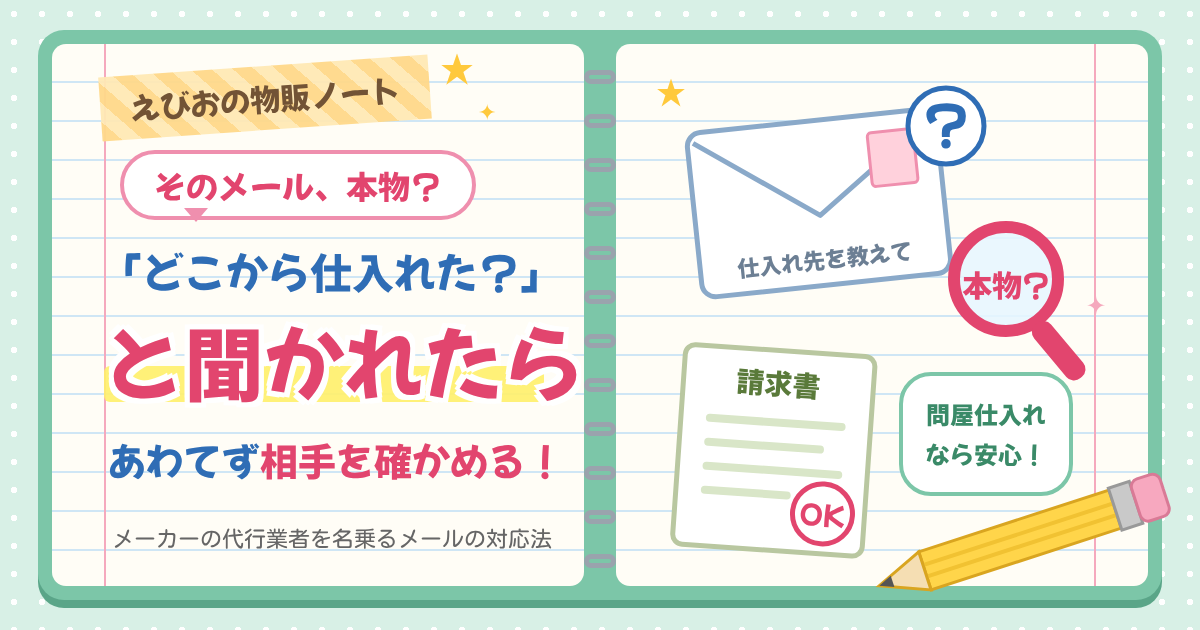
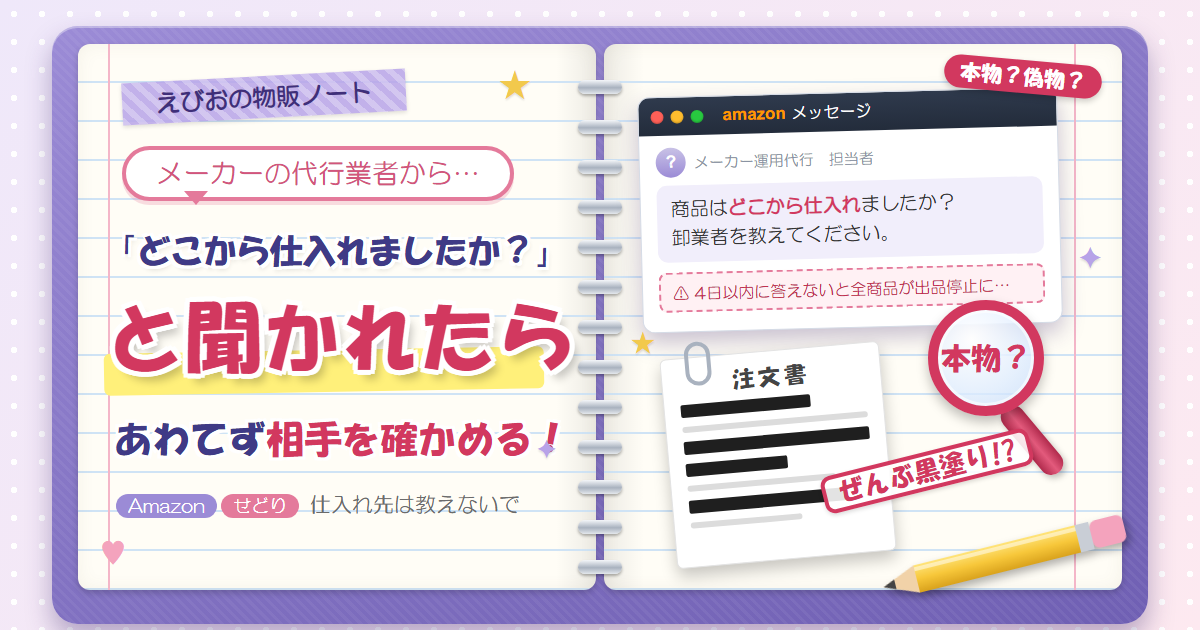
1740 shiiresaki-toiawase を仕上げ（体験・請求書の条件・アイキャッチ作り直し）

diff --git a/posts/2026-10-14-shiiresaki-toiawase.html b/posts/2026-10-14-shiiresaki-toiawase.html
@@ -1,19 +1,20 @@
 <!--
-タイトル案1：Amazonで「どこから仕入れましたか？」とメーカーの代行業者からメールが来たら
-タイトル案2：仕入れ先を教えて？そのメール、本物ですか？【せどり・Amazon】
-タイトル案3：「全商品が出品停止に」と書かれたメール…仕入れ先を聞かれたときの対応法【せどり】
+タイトル案1：「どこから仕入れましたか？」のメールは偽物だった！？Amazonで仕入れ先を聞かれたときの対応
+タイトル案2：仕入れ先を聞いてきたメーカーの代行業者、送ってきた証明書が真っ黒だなんて！【せどり・Amazon】
+タイトル案3：Amazonで「どこから仕入れましたか？」とメーカーの代行業者からメールが来たら
 カテゴリー：せどり（WordPress の下書き 1740番。スラッグ shiiresaki-toiawase）
+2026/11/14 アプリ版で仕上げ：えびおの体験（返信したら、聞いたことに答えず塗りつぶした注文書が来た→もう一度聞いたら連絡が来なくなった）と、Amazon公式の請求書の条件（ヘルプ「ポリシー違反の申し立てに関する請求書の要件」）を入れて、要確認を消した。タイトルは案3（今のまま）に決定。アイキャッチ（2026-10-14-shiiresaki-toiawase.png）を作り直して設定（メディア2049番）
 -->
 <!-- wp:paragraph -->
 <p>こんにちは！えびおです。</p>
 <!-- /wp:paragraph -->
 
 <!-- wp:html -->
-<div class="speech-wrap sb-id-1 sbs-stn sbp-l sbis-sb cf"><div class="speech-person"><figure class="speech-icon"><img class="speech-icon-image" src="https://iseebio.jp/wp-content/uploads/2026/10/ebio-yoroshiku.png" alt="えびお（よろしくお願いします！）" width="160" height="160" /></figure><div class="speech-name">えびお</div></div><div class="speech-balloon"><p>今日は、実際に私のところに届いた「メール」の話です。物販をしている人なら、誰にでも届くかもしれません。</p></div></div>
+<div class="speech-wrap sb-id-1 sbs-stn sbp-l sbis-sb cf"><div class="speech-person"><figure class="speech-icon"><img class="speech-icon-image" src="https://iseebio.jp/wp-content/uploads/2026/10/ebio-yoroshiku.png" alt="えびお（よろしくお願いします！）" width="160" height="160" /></figure><div class="speech-name">えびお</div></div><div class="speech-balloon"><p>今日は、実際にえびおのところに届いた「メール」の話です。物販をしている人なら、誰にでも届くかもしれません。</p></div></div>
 <!-- /wp:html -->
 
 <!-- wp:paragraph -->
-<p>先日、私のところに、Amazon経由で1通のメールが届きました。差出人は、大手の日用品メーカーのAmazon運用を代行している会社の人です。</p>
+<p>先月、Amazon経由で1通のメールが届きました。差出人は、大手の日用品メーカーのAmazon運用を代行しているという会社の人です。</p>
 <!-- /wp:paragraph -->
 
 <!-- wp:paragraph -->
@@ -29,11 +30,11 @@
 <!-- /wp:html -->
 
 <!-- wp:paragraph -->
-<p>今回は、私に実際に届いたメールの中身と、えびおならどう返すかをお話しします。</p>
+<p>今回は、届いたメールの中身と、どう返して、どうなったかをお話しします。</p>
 <!-- /wp:paragraph -->
 
 <!-- wp:heading -->
-<h2 class="wp-block-heading">私のところに「どこから仕入れましたか？」とメールが届いた</h2>
+<h2 class="wp-block-heading">「どこから仕入れましたか？」とメールが届いた</h2>
 <!-- /wp:heading -->
 
 <!-- wp:paragraph -->
@@ -73,11 +74,11 @@
 <!-- /wp:quote -->
 
 <!-- wp:paragraph -->
-<p>回答の期限も決められていて、<mark style="background-color:rgba(0, 0, 0, 0);color:#c00000" class="has-inline-color"><strong>「すべての商品が出品停止」</strong></mark>とまで書かれています。</p>
+<p>回答の期限は、メールが来てから4日後。しかも<mark style="background-color:transparent;color:#c00000" class="has-inline-color"><strong>「すべての商品が出品停止」</strong></mark>とまで書かれています。</p>
 <!-- /wp:paragraph -->
 
 <!-- wp:html -->
-<div class="speech-wrap sb-id-1 sbs-stn sbp-l sbis-sb cf"><div class="speech-person"><figure class="speech-icon"><img class="speech-icon-image" src="https://iseebio.jp/wp-content/uploads/2026/10/ebio-e.png" alt="えびお（えっ!?）" width="160" height="160" /></figure><div class="speech-name">えびお</div></div><div class="speech-balloon"><p>ここを読んだときは、私も本当にドキッとしました。全部の商品が止まったら…と考えると、こわいですよね。</p></div></div>
+<div class="speech-wrap sb-id-1 sbs-stn sbp-l sbis-sb cf"><div class="speech-person"><figure class="speech-icon"><img class="speech-icon-image" src="https://iseebio.jp/wp-content/uploads/2026/10/ebio-e.png" alt="えびお（えっ!?）" width="160" height="160" /></figure><div class="speech-name">えびお</div></div><div class="speech-balloon"><p>ここを読んだときは、本当にドキッとしました。全部の商品が止まったら…と考えると、こわいですよね。</p></div></div>
 <!-- /wp:html -->
 
 <!-- wp:heading -->
@@ -85,7 +86,7 @@
 <!-- /wp:heading -->
 
 <!-- wp:paragraph -->
-<p>でも、あわてて仕入れ先を答えるのは待ってください。私がまず考えたのは、このメールを送ってきた人が本当にメーカー側の人なのか、ということです。</p>
+<p>でも、あわてて仕入れ先を答えるのは待ってください。えびおがまず考えたのは、このメールを送ってきた人が本当にメーカー側の人なのか、ということです。</p>
 <!-- /wp:paragraph -->
 
 <!-- wp:paragraph -->
@@ -109,66 +110,90 @@
 <!-- /wp:paragraph -->
 
 <!-- wp:heading -->
-<h2 class="wp-block-heading">えびおならこう返します</h2>
+<h2 class="wp-block-heading">えびおはこう返しました。そして相手は…</h2>
 <!-- /wp:heading -->
 
 <!-- wp:paragraph -->
-<p>私なら、こんな内容で返信します。</p>
+<p>その日のうちに、こんな内容で返信しました。</p>
 <!-- /wp:paragraph -->
 
 <!-- wp:quote -->
 <blockquote class="wp-block-quote"><!-- wp:paragraph -->
-<p>お問い合わせありがとうございます。私どもの問屋（仕入れ先）にも確認いたしますので、下記を教えていただけますでしょうか。</p>
+<p>ご連絡ありがとうございます。弊社の仕入れ先である問屋を通じて、メーカーのご担当者さまへ事実確認をいたします。確認のため、下記を教えていただけますでしょうか。</p>
 <!-- /wp:paragraph -->
 
 <!-- wp:paragraph -->
-<p>・御社の会社名、ご担当者さまのお名前、ご連絡先、ご住所</p>
+<p>・御社の会社名、所在地、電話番号</p>
 <!-- /wp:paragraph -->
 
 <!-- wp:paragraph -->
-<p>・念のため、メーカーのご担当者さまのお名前とご連絡先</p>
+<p>・メーカーの担当部署、ご担当者さまのお名前、担当部署の電話番号</p>
 <!-- /wp:paragraph -->
 
 <!-- wp:paragraph -->
-<p>確認がとれましたら、問屋を通して必要な情報をお伝えいたします。</p>
+<p>なお、仕入れ先は取引先の情報ですので、メーカーご本人であることが確認できるまでは、開示を控えさせていただきます。</p>
 <!-- /wp:paragraph --></blockquote>
 <!-- /wp:quote -->
 
 <!-- wp:paragraph -->
-<p>ポイントは、相手のことを先に聞くことです。そして、メーカーの担当者の名前と連絡先も、念のため教えてもらいます。</p>
+<p>ポイントは、相手のことを先に聞くことです。そして、メーカーの担当者の名前と連絡先も教えてもらいます。</p>
 <!-- /wp:paragraph -->
 
 <!-- wp:paragraph -->
-<p>教えてもらえたら、私のほうで問屋や仕入れ先とやり取りをします。本物だと確かめられたら、問屋を通してメーカー側に情報を流してもらう、という流れです。</p>
+<p>教えてもらえたら、問屋を通してメーカーに確かめてもらいます。本物だと分かったら、問屋からメーカー側に情報を流してもらう、という流れです。</p>
 <!-- /wp:paragraph -->
 
 <!-- wp:paragraph -->
 <p><mark style="background-color:#fff09a;color:#c00000" class="has-inline-color"><strong>こちらから直接、仕入れ先の名前を出さない</strong></mark>。ここが大事です。</p>
 <!-- /wp:paragraph -->
 
+<!-- wp:paragraph -->
+<p>すると、すぐに返事が来ました。ところが、聞いたことにはまったく答えていません。</p>
+<!-- /wp:paragraph -->
+
+<!-- wp:paragraph -->
+<p>会社名や住所、メーカーの担当者のことは書かれておらず、「取引の証明です」と注文書の画像が1枚ついていました。</p>
+<!-- /wp:paragraph -->
+
+<!-- wp:paragraph -->
+<p>その注文書は、<mark style="background-color:transparent;color:#c00000" class="has-inline-color"><strong>宛先・注文番号・日付・品名などの大事なところが、全部塗りつぶされていました</strong></mark>。これでは何の証明にもなりません。</p>
+<!-- /wp:paragraph -->
+
+<!-- wp:paragraph -->
+<p>さらに、連絡先のメールアドレスを「前半」「アットマーク」「後半」と、わざと分けて書いてきました。Amazonのメッセージではアドレスが消されてしまうので、Amazonの外でやり取りしたかったのだと思います。</p>
+<!-- /wp:paragraph -->
+
+<!-- wp:html -->
+<div class="speech-wrap sb-id-1 sbs-stn sbp-l sbis-sb cf"><div class="speech-person"><figure class="speech-icon"><img class="speech-icon-image" src="https://iseebio.jp/wp-content/uploads/2026/10/ebio-punpun.png" alt="えびお（ぷんぷん）" width="160" height="160" /></figure><div class="speech-name">えびお</div></div><div class="speech-balloon"><p>こちらが聞いていることに、まったく答えていないんですよね。話が通じていない感じでした。</p></div></div>
+<!-- /wp:html -->
+
+<!-- wp:paragraph -->
+<p>そこで、もう一度返信しました。塗りつぶされていて確かめられないこと、聞いたことにまだ答えてもらっていないことを伝えました。</p>
+<!-- /wp:paragraph -->
+
+<!-- wp:paragraph -->
+<p>あわせて、「購入者から問い合わせがあったなら、こちらでも確かめるので、商品と注文番号と問い合わせの中身を教えてください」とも聞きました。</p>
+<!-- /wp:paragraph -->
+
+<!-- wp:paragraph -->
+<p>そして、Amazonから本物かどうかの確認があれば、Amazonに直接、仕入れの書類を出します、とも伝えました。やり取りは、Amazonのメッセージの中だけにしてほしい、ともお願いしました。</p>
+<!-- /wp:paragraph -->
+
+<!-- wp:paragraph -->
+<p>その返信を最後に、<mark style="background-color:#fff09a" class="has-inline-color">相手からの連絡は来なくなりました</mark>。それから1か月たちますが、その商品の出品にも何も起きていません。</p>
+<!-- /wp:paragraph -->
+
+<!-- wp:paragraph -->
+<p>文章も、どこかたどたどしく、日本の人が書いたのかどうか分からないような感じでした。今ならAIに作ってもらったほうが、まだうまい文章になると思います（笑）</p>
+<!-- /wp:paragraph -->
+
+<!-- wp:paragraph -->
+<p>たぶん、偽物だったんでしょうね。メーカーの名前を出して、仕入れ先を聞き出そうとする。そういう、ずるい考えの人なんだなと思いました。</p>
+<!-- /wp:paragraph -->
+
 <!-- wp:html -->
 <div class="speech-wrap sb-id-1 sbs-stn sbp-l sbis-sb cf"><div class="speech-person"><figure class="speech-icon"><img class="speech-icon-image" src="https://iseebio.jp/wp-content/uploads/2026/10/ebio-koreda.png" alt="えびお（これだ！）" width="160" height="160" /></figure><div class="speech-name">えびお</div></div><div class="speech-balloon"><p>本物の担当者なら、名前や連絡先を教えるのは困らないはずです。答えられない相手なら、そこで分かりますよね。</p></div></div>
 <!-- /wp:html -->
-
-<!-- wp:paragraph -->
-<p>正直に言うと、このあとどうなるかは、まだ分かりません。本物というケースもあるので、何とも言えないところです。</p>
-<!-- /wp:paragraph -->
-
-<!-- wp:paragraph -->
-<p>ただ、私が聞いている限りでは、偽物の場合は、そのあと何も連絡してこないケースのほうが多いそうです。</p>
-<!-- /wp:paragraph -->
-
-<!-- wp:paragraph -->
-<p>だから、<mark style="background-color:#fff09a" class="has-inline-color">そんなに気にしなくてもいいのかな</mark>と思っています。</p>
-<!-- /wp:paragraph -->
-
-<!-- wp:html -->
-<div class="speech-wrap sb-id-1 sbs-stn sbp-l sbis-sb cf"><div class="speech-person"><figure class="speech-icon"><img class="speech-icon-image" src="https://iseebio.jp/wp-content/uploads/2026/10/ebio-ok.png" alt="えびお（OK!）" width="160" height="160" /></figure><div class="speech-name">えびお</div></div><div class="speech-balloon"><p>相手を確かめる返事さえしておけば、あまり気にしすぎなくて大丈夫だと思います。</p></div></div>
-<!-- /wp:html -->
-
-<!-- wp:paragraph -->
-<p><mark style="background-color:rgba(0, 0, 0, 0);color:#c00000" class="has-inline-color"><strong>【要確認：返信を送ったか、相手から返事が来たか。結果が出たら、ここにえびおの体験】</strong></mark></p>
-<!-- /wp:paragraph -->
 
 <!-- wp:heading -->
 <h2 class="wp-block-heading">ほかの出品者はどうしている？調べてみました</h2>
@@ -205,11 +230,45 @@
 <!-- /wp:paragraph -->
 
 <!-- wp:paragraph -->
-<p><mark style="background-color:rgba(0, 0, 0, 0);color:#c00000" class="has-inline-color"><strong>【要確認：Amazonの真贋調査で出す書類の条件（請求書の日付や内容など）が今も同じか】</strong></mark></p>
+<p>本当に調べるのは、Amazonです。Amazonから「この商品は本物ですか？正しいルートで仕入れましたか？」と確かめられることを、真贋（しんがん）調査と言います。</p>
 <!-- /wp:paragraph -->
 
 <!-- wp:paragraph -->
-<p>真贋調査とは、Amazonから「この商品は本物ですか？正しいルートで仕入れましたか？」と確かめられることです。</p>
+<p>そのときに出す請求書の条件は、セラーセントラルのヘルプ「ポリシー違反の申し立てに関する請求書の要件」に書かれています。2026年11月に確かめた内容を、かんたんにまとめるとこうです。</p>
+<!-- /wp:paragraph -->
+
+<!-- wp:list -->
+<ul class="wp-block-list"><!-- wp:list-item -->
+<li>Amazonから通知が来た日より前の、365日以内の日付が入っている</li>
+<!-- /wp:list-item -->
+
+<!-- wp:list-item -->
+<li>過去365日に売った数と、手もとの在庫をまかなえる数が書かれている</li>
+<!-- /wp:list-item -->
+
+<!-- wp:list-item -->
+<li>商品名・型番・JANなど、どの商品か分かるコードが書かれている</li>
+<!-- /wp:list-item -->
+
+<!-- wp:list-item -->
+<li>仕入れ先の名前・電話番号・住所・ウェブサイトなどが書かれている</li>
+<!-- /wp:list-item -->
+
+<!-- wp:list-item -->
+<li>値段は消してもよいが、ほかの部分はすべて読めるようにする</li>
+<!-- /wp:list-item -->
+
+<!-- wp:list-item -->
+<li>見積書や、自分で作った請求書、Excel・Wordのような書きかえられる形のものはダメ</li>
+<!-- /wp:list-item --></ul>
+<!-- /wp:list -->
+
+<!-- wp:paragraph -->
+<p>Amazonのヘルプには、仕入れ先の情報は「常に社外秘として扱われます」とも書かれています。仕入れ先を見せる相手は、Amazonです。名前もはっきりしない代行業者ではありません。</p>
+<!-- /wp:paragraph -->
+
+<!-- wp:paragraph -->
+<p>ちなみに、Amazonでも値段以外を消した請求書はダメです。大事なところを全部塗りつぶした注文書を「証明」として送ってくる相手が、どれだけあやしいか分かりますよね。</p>
 <!-- /wp:paragraph -->
 
 <!-- wp:paragraph -->
@@ -261,11 +320,11 @@
 <!-- /wp:paragraph -->
 
 <!-- wp:paragraph -->
-<p>・まず相手の会社名・担当者・連絡先と、メーカーの担当者を聞いて、本物か確かめる</p>
+<p>・まず相手の会社名・連絡先と、メーカーの担当者を聞いて、本物か確かめる（えびおのときは、それっきり連絡が来なくなりました）</p>
 <!-- /wp:paragraph -->
 
 <!-- wp:paragraph -->
-<p>・請求書や納品書が出せる問屋仕入れなら、真贋もこわくない</p>
+<p>・仕入れ先を見せるのはAmazonだけ。請求書や納品書が出せる問屋仕入れなら、真贋もこわくない</p>
 <!-- /wp:paragraph -->
 
 <!-- wp:paragraph -->
@@ -274,6 +333,14 @@
 
 <!-- wp:paragraph -->
 <p>質問や相談があれば、お問い合わせフォームからお気軽にどうぞ。</p>
+<!-- /wp:paragraph -->
+
+<!-- wp:paragraph -->
+<p>あわせて読みたい：<a href="/nise-mail-chuui/">「アカウント停止」のメールが偽物だなんて！ブラックフライデー前にせどらーを狙う偽メールに注意</a></p>
+<!-- /wp:paragraph -->
+
+<!-- wp:paragraph -->
+<p>あわせて読みたい：<a href="/shuppin-kisei-kaijo/">Amazonの出品規制はなぜこんなに厳しい？解除のやり方と必要な個数の謎</a></p>
 <!-- /wp:paragraph -->
 
 <!-- wp:paragraph -->
